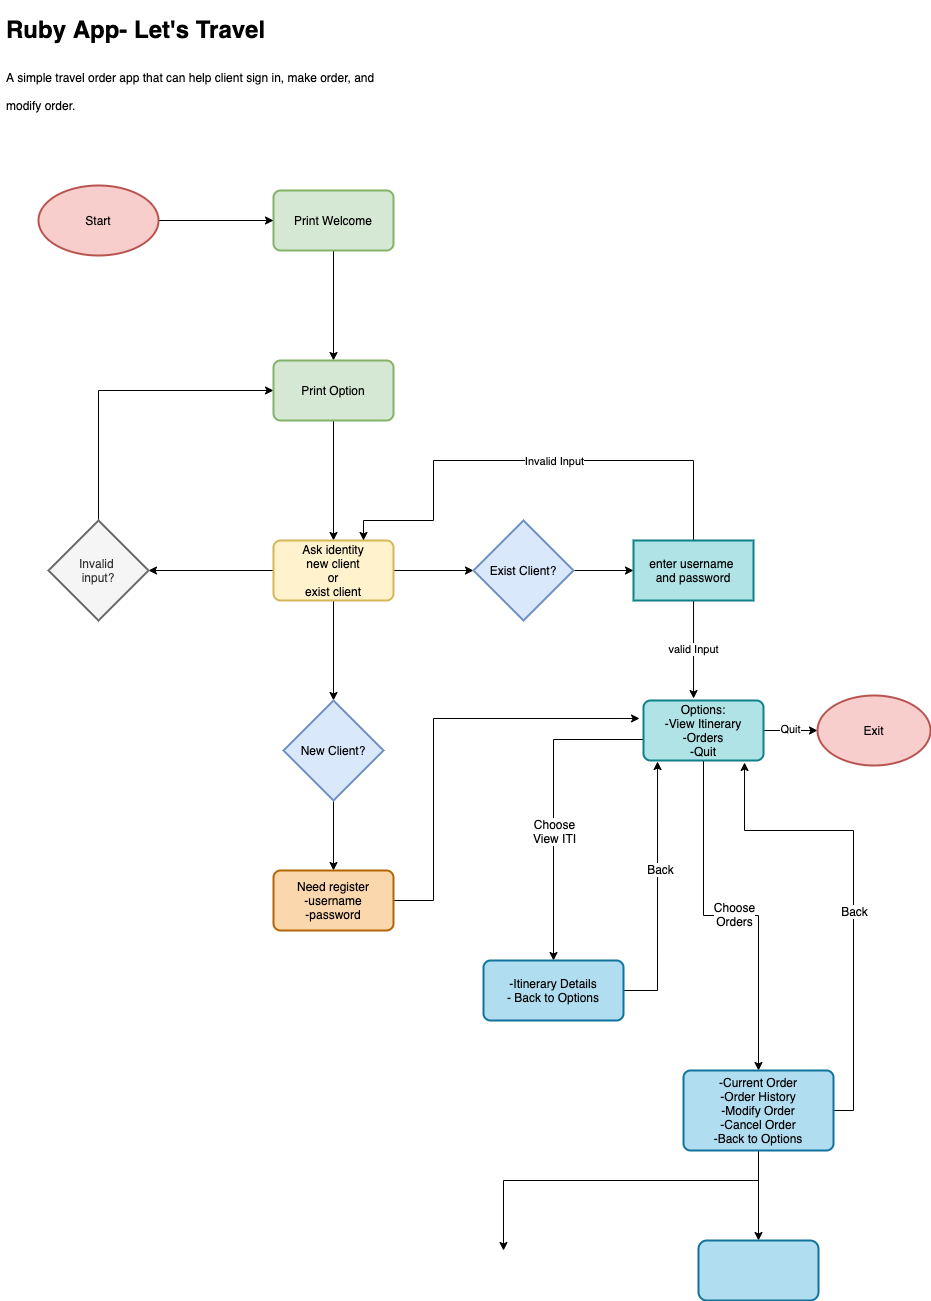
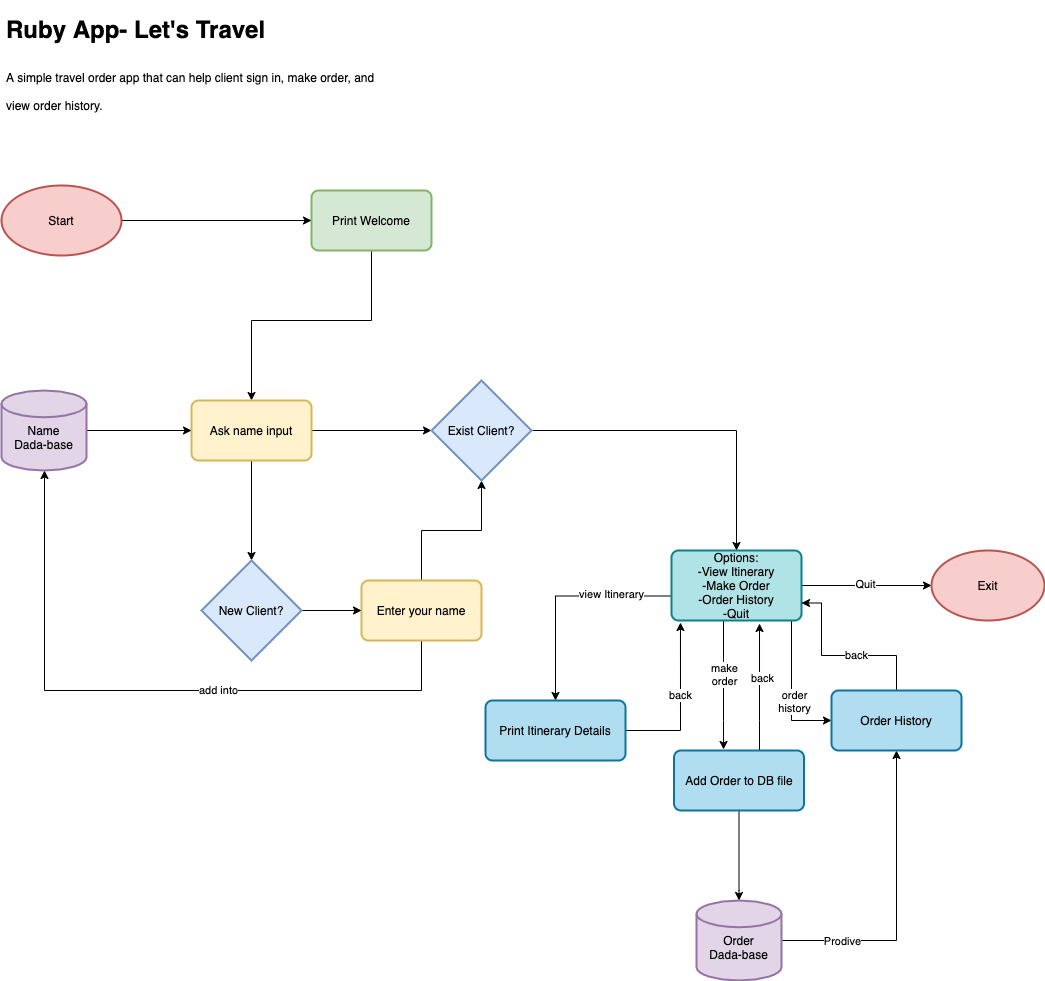
update flowchart and classes,methods

diff --git a/src/main.rb b/src/main.rb
@@ -9,6 +9,19 @@ require './methods/methods.rb'
 welcome_note
 #end
 
+itinerary_01 = {
+    name:"Golf Tour",
+    details:"5 Days,18 holes, Barnbougle Dunes, Lost Farm, LST",
+    price: "$600/pp"
+}
+itinerary_02 = {
+    name:"Golf Tour",
+    details:"3 Days,18 holes x 3, Barnbougle Dunes, Lost Farm, LST",
+    price: "$600/pp"
+}
+itineraries = [itinerary_01, itinerary_02]
+
+
 #Basic App Menu System
 while true
 prompt = TTY::Prompt.new
@@ -16,32 +29,53 @@ puts "Welcome to our application".colorize(:light_green)
 puts "Please tell us if you are return client or new client".colorize(:light_yellow)
 
 choices = ["Return-client", "New-client", "Exit"]
-answer = prompt.select("Please tell us your choise",choices,cycle: true)
+choice_answer = prompt.select("Please tell us your choise",choices,cycle: true)
 
-case answer
+case choice_answer
 # => for return clients
 when choices[0]  # ask username and password
-    puts "Welcome back, please enter your username and password".colorize(:light_yellow)
-    # valid || invalid username
-    puts "Please enter your username:".colorize(:light_yellow)
-    input_user = gets.chomp
-    while true
-        break if (input_user.length < 6)
-        puts "#{input_user} was invalid username,username only can include letter and numbers,and it can be more than 6"
-        input_user = gets.chomp
-    end
-    # valid || invalid password
-    puts "Please enter your password:".colorize(:light_yellow)
-    input_password = gets.chomp
-    while true
-        break if (input_password.length != 0)
-        puts "your password can not empty,please enter again"
-        input_password = gets.chomp
-    end
+  puts "Welcome back, please enter your username and password".colorize(:light_yellow)
+   # valid || invalid username
+  puts "Please enter your username:".colorize(:light_yellow)
+  input_user = gets.chomp
+  while true
+      break if (input_user.length < 6)
+      puts "#{input_user} was invalid username,username only can include letter and numbers,and it can be more than 6"
+      input_user = gets.chomp
+  end
+  # valid || invalid password
+  puts "Please enter your password:".colorize(:light_yellow)
+  input_password = gets.chomp
+  while true
+      break if (input_password.length != 0)
+      puts "your password can not empty,please enter again"
+      input_password = gets.chomp
+  end
+
+while true
+  options = ["Check Itinerary", "Current Order", "Cancel Order","Exit"]
+  option_answer = prompt.select("Please tell us your choise",options,cycle: true)
+  case option_answer
+  when options[0]
+    puts "Here is our itinerarys"
+    puts "#{itineraries}"
+  when options[1]
+    puts "here is your current Order details"
+  when options[2]
+    puts "OK,your order is cancelled"
+  when options[3]
+    puts "Goodbye :)"
+    exit
+  end
+end
+
 
 # => for new client
 when choices[1]
     puts "Welcome to choose our app, please register first".colorize(:light_green)
+
+
+
 when choices[2]
     puts "Goodbye :)".colorize(:light_cyan)
     exit

diff --git a/src/spec/travel_spec.rb b/src/spec/travel_spec.rb
@@ -1,0 +1,18 @@
+require './classes/itinerary_item.rb'
+require './classes/itinerary.rb'
+require './classes/order.rb'
+require './classes/user.rb'
+require './classes/travel.rb'
+
+describe ItineraryItem do
+    it "should return the itinerary name,details and price " do
+        name = "golf tour"
+        details = "5 Days,18 holes, Barnbougle Dunes, Lost Farm, LST golf clubs"
+        price = 600
+        itinerary_item = ItineraryItem.new(name,details,price)
+        expect(itinerary_item.price).to eq(price)
+    end
+end
+
+
+

diff --git a/src/methods/methods.rb b/src/methods/methods.rb
@@ -10,5 +10,6 @@ end
 
 # => For Exist client register
 def print_menu_01
- # put choice[0] in here
+  # put choice[0] in here
+  
 end
